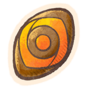
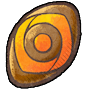
part 4: visuals
reuse visual feedback from gourmet
beautify assets

diff --git a/app/rooms/commands/game-commands.ts b/app/rooms/commands/game-commands.ts
@@ -909,11 +909,13 @@ export class OnDragDropItemCommand extends Command<
     if (item === Item.LETTER && isOnBench(pokemon) && pokemon.types.has(Synergy.FLYING)) {
       pokemon.action = PokemonActionState.EXPLORING
       const returnDelay = 
-        pokemon.name === Pkm.PELIPPER // Easter Egg Pelipper 
-          ? 1
-          : pokemon.items.has(Item.SHARP_BEAK)
+        pokemon.name === Pkm.GYARADOS // Easter Egg Gyarados
+          ? 5
+          :pokemon.name === Pkm.PELIPPER // Easter Egg Pelipper 
             ? 1
-            : 2
+            : pokemon.items.has(Item.SHARP_BEAK)
+              ? 1
+              : 2
       player.pokemonsExploring.push({
         pokemonId: pokemon.id,
         returnStage: this.state.stageLevel + returnDelay
@@ -1768,12 +1770,12 @@ export class OnUpdatePhaseCommand extends Command<GameRoom> {
       const pokemon = player.board.get(e.pokemonId)
       if (pokemon) {
         pokemon.action = PokemonActionState.IDLE
-        player.items.push(pickRandomIn(Seeds))
-        const bonus = rollExplorerBonusReward(pokemon.rarity)
-        if (bonus) {
-          player.items.push(bonus)
-        }
-        // Corviknight Easter Egg
+        const seed = pickRandomIn(Seeds)
+        const bonus = pokemon.name === Pkm.GYARADOS
+          ? null
+          : rollExplorerBonusReward(pokemon.rarity)
+        const client = this.room.clients.find((c) => c.auth.uid === player.id)
+
         if (pokemon.name === Pkm.CORVIKNIGHT) {
           const position = getFirstAvailablePositionInBench(player.board)
           if (position !== null) {
@@ -1783,6 +1785,18 @@ export class OnUpdatePhaseCommand extends Command<GameRoom> {
             player.board.set(mareep.id, mareep)
           }
         }
+
+        this.room.clock.setTimeout(() => {
+          player.items.push(seed)
+          if (bonus) player.items.push(bonus)
+          if (pokemon.name === Pkm.GYARADOS) player.items.push(Item.RED_SCALE)
+          if (client) {
+            const dishes: Item[] = [seed]
+            if (bonus) dishes.push(bonus)
+            if (pokemon.name === Pkm.GYARADOS) dishes.push(Item.RED_SCALE)
+            client.send(Transfer.COOK, { pokemonId: pokemon.id, dishes })
+          }
+        }, 2750)
       }
     })
 

diff --git a/app/core/seeds.ts b/app/core/seeds.ts
@@ -3,9 +3,7 @@ import { DungeonPMDO } from "../types/enum/Dungeon"
 import { EffectEnum } from "../types/enum/Effect"
 import { Rarity, Team } from "../types/enum/Game"
 import { type Seeds, CraftableNoStonesOrScarves, Item, ItemComponents, ItemComponentsNoScarf } from "../types/enum/Item"
-import { Pkm } from "../types/enum/Pokemon"
 import { Synergy } from "../types/enum/Synergy"
-import { WandererBehavior, WandererType } from "../types/enum/Wanderer"
 import { chance, pickNRandomIn, pickRandomIn } from "../utils/random"
 import {
   type Effect,
@@ -243,6 +241,8 @@ export const SeedEffects: Record<(typeof Seeds)[number], Effect[]> = {
   WARP_SEED: [
     new OnSkyDiveAttackEffect(({ pokemon, target }) => {
       if (!pokemon.isStrongestAllyThisFight) return
+      target.status.triggerConfusion(5000, target, pokemon)
+      //start warping
       const opponent = target.player
       if (!opponent) return
       const room = pokemon.simulation.room
@@ -250,17 +250,11 @@ export const SeedEffects: Record<(typeof Seeds)[number], Effect[]> = {
       const maps = Object.values(DungeonPMDO).filter((m) => m !== previousMap)
       const newMap = pickRandomIn(maps)
       room.broadcast(Transfer.PRELOAD_MAPS, [newMap])
-      opponent.spawnWanderingPokemon({
-        pkm: Pkm.LAPRAS,
-        type: WandererType.DIALOG,
-        behavior: WandererBehavior.SPECTATE,
-        data: newMap
-      })
       room.clock.setTimeout(() => {
         opponent.map = newMap
         opponent.regions.push(newMap)
         opponent.updateRegionalPool(room.state, true, previousMap)
-      }, 10000)
+      }, 500)
     })
   ],
   // ---- Group 6: misc ----

diff --git a/app/public/src/pages/component/bot-builder/item-picker.tsx b/app/public/src/pages/component/bot-builder/item-picker.tsx
@@ -81,7 +81,7 @@ export default function ItemPicker(props: {
         Item.CORNERSTONE_MASK,
         Item.HEARTHFLAME_MASK,
         ...MemoryDiscs,
-        Item.LETTER
+        Item.SHARP_BEAK
       ]
     }
   ]
